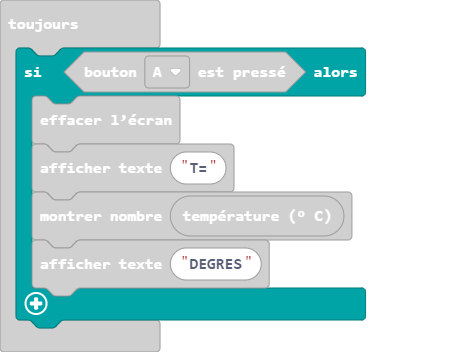
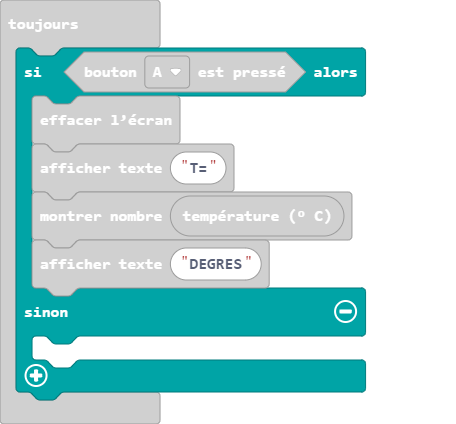
Mise à jour main.blocks, main.ts

diff --git a/main.ts b/main.ts
@@ -4,5 +4,7 @@ basic.forever(function () {
         basic.showString("T=")
         basic.showNumber(input.temperature())
         basic.showString("DEGRES")
+    } else {
+    	
     }
 })
